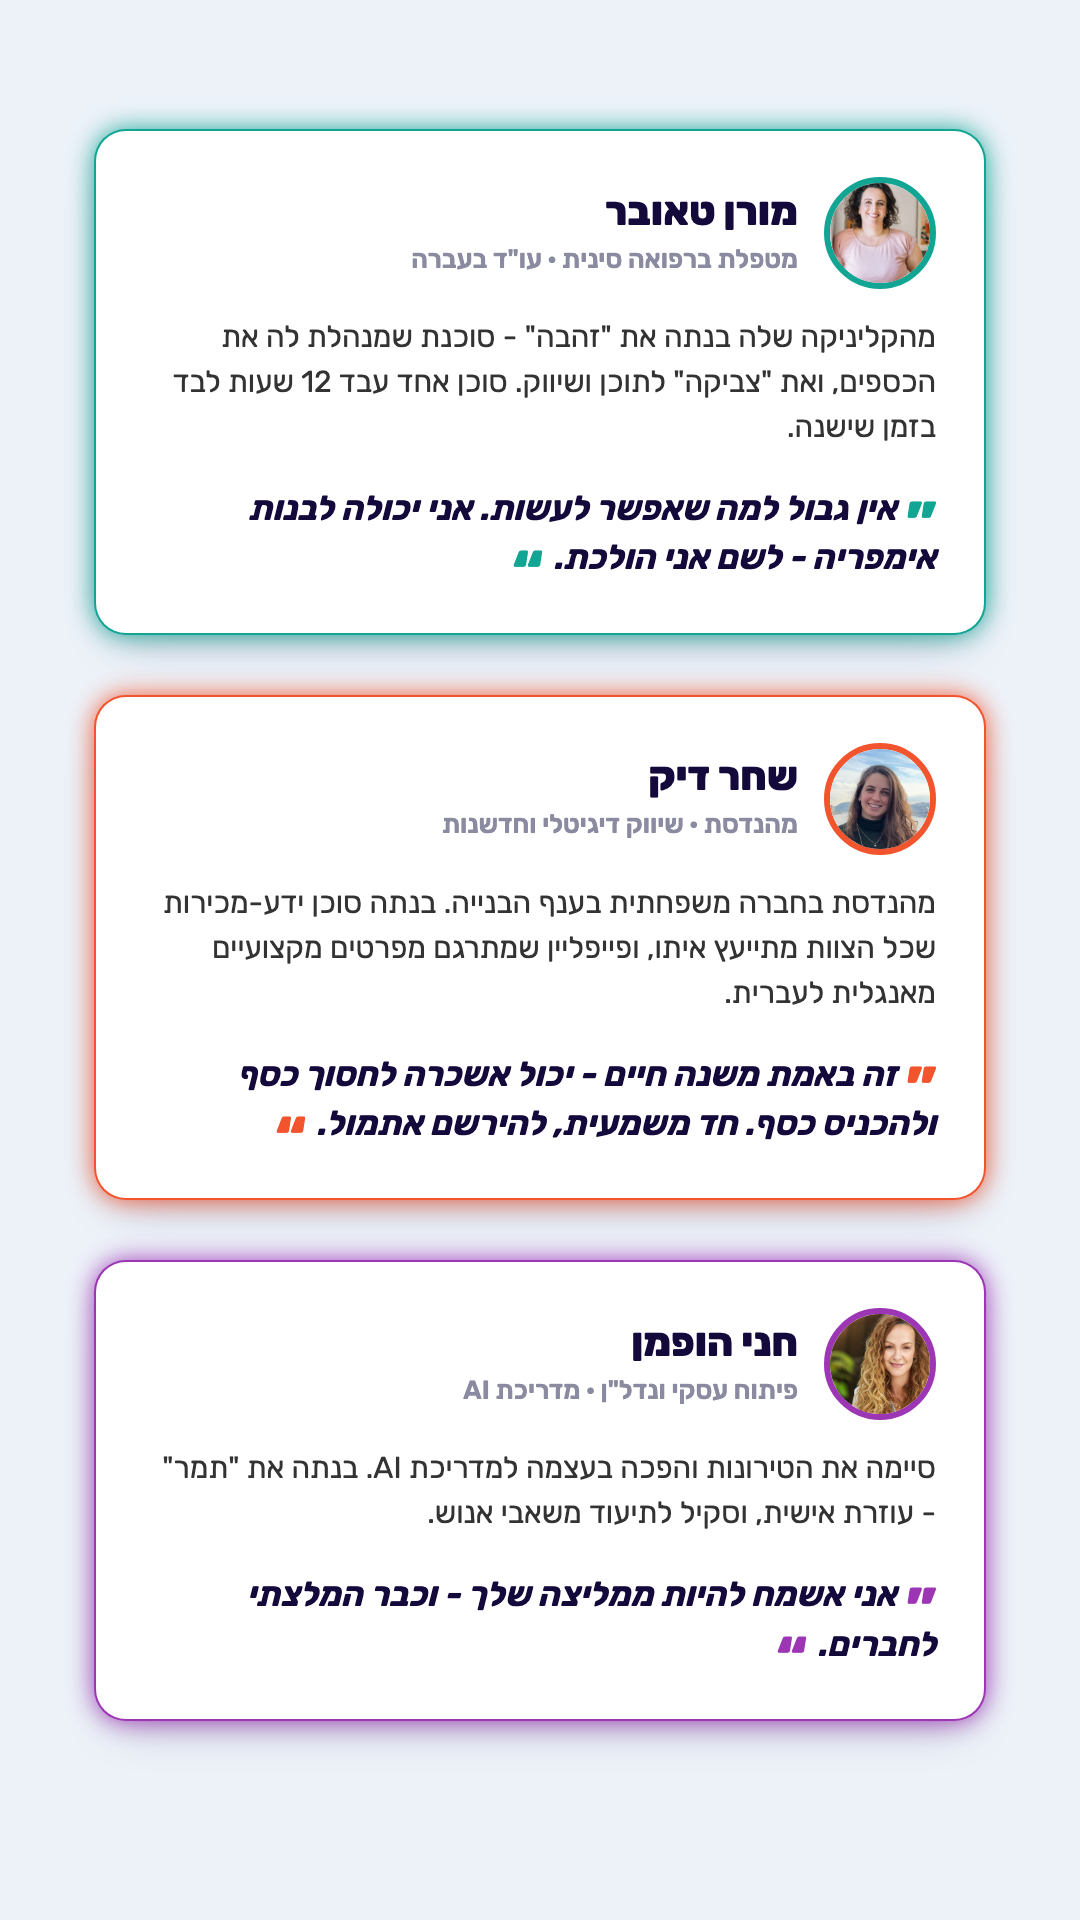
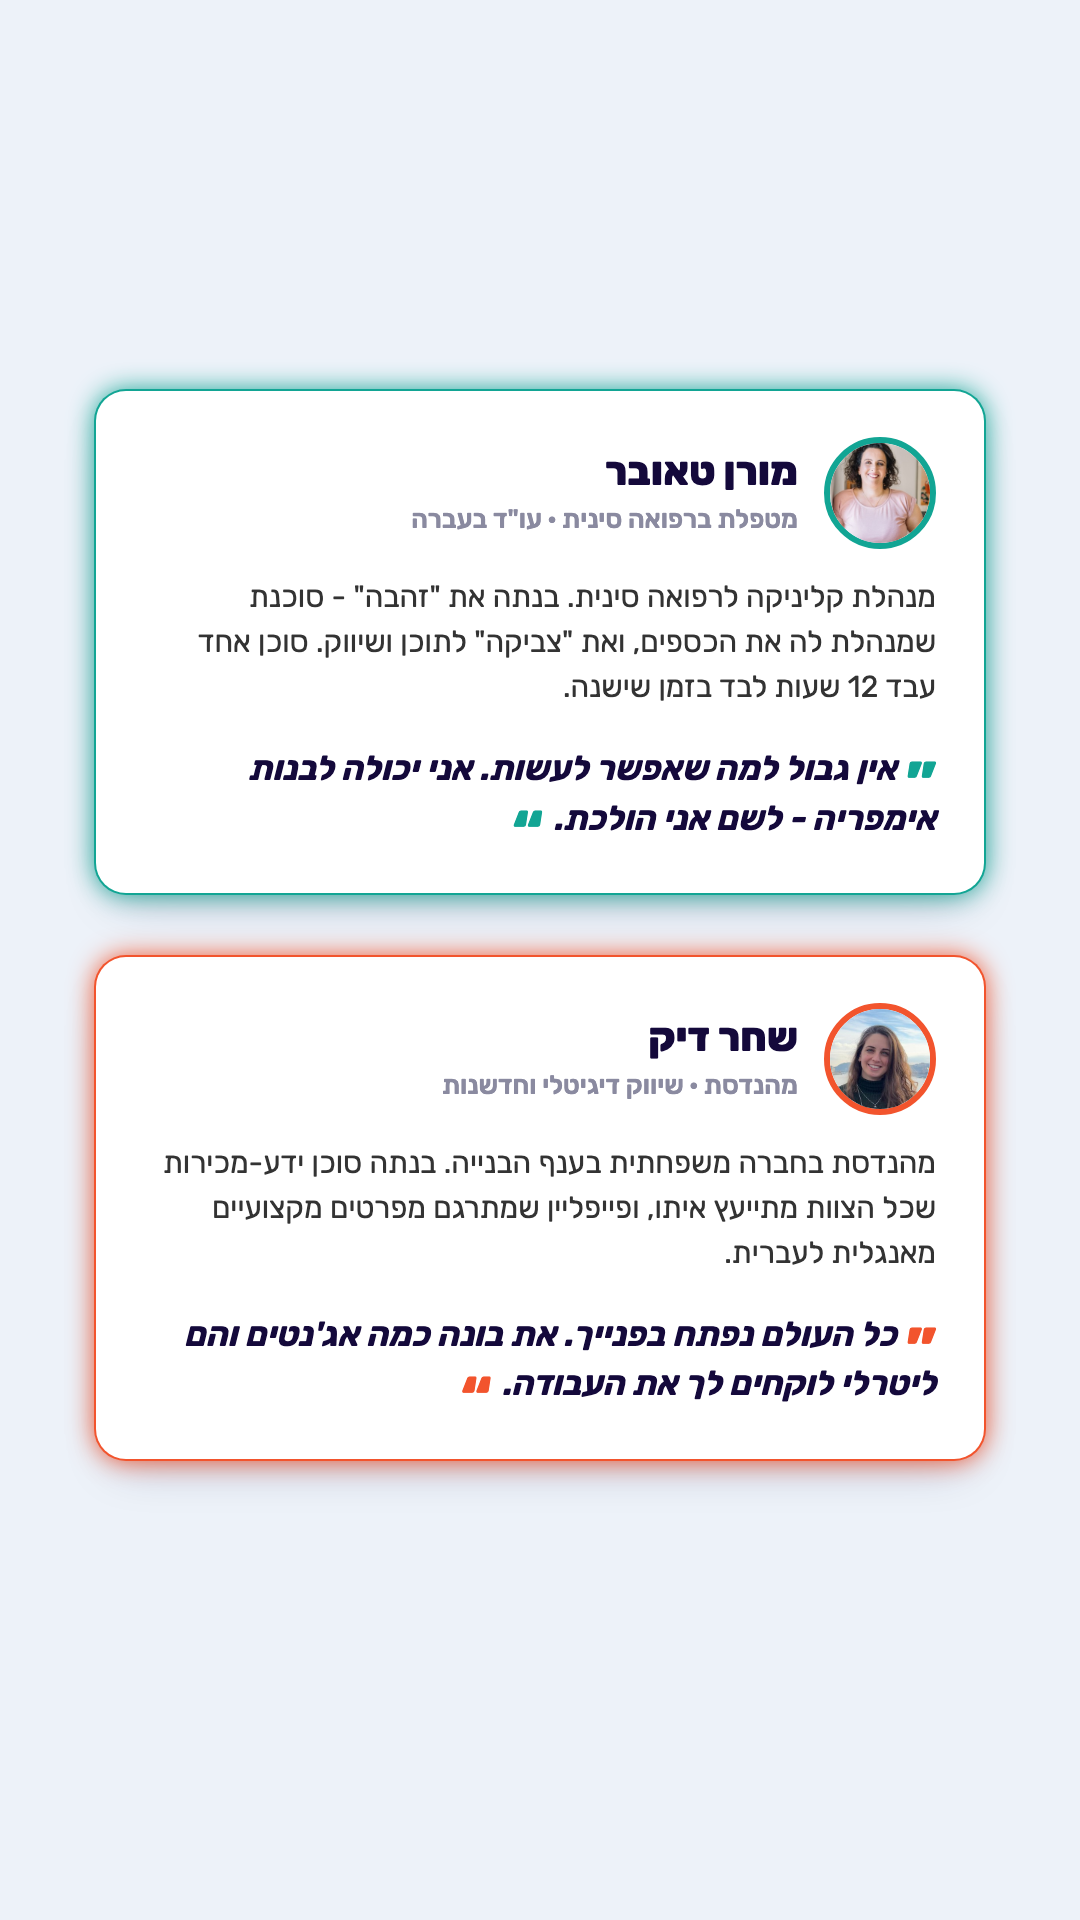
stories: slide 8 - Moran bio + Shahar stronger quote, remove Hani

Changed region(s): [[0.0611, 0.0625, 0.9472, 0.9062]]

diff --git a/stories.html b/stories.html
@@ -305,7 +305,7 @@
           <img class="tcard__photo" src="students/moran.jpg" alt="מורן טאובר">
           <div><div class="tcard__name">מורן טאובר</div><div class="tcard__role">מטפלת ברפואה סינית · עו"ד בעברה</div></div>
         </div>
-        <p class="tcard__info">מהקליניקה שלה בנתה את "זהבה" - סוכנת שמנהלת לה את הכספים, ואת "צביקה" לתוכן ושיווק. סוכן אחד עבד 12 שעות לבד בזמן שישנה.</p>
+        <p class="tcard__info">מנהלת קליניקה לרפואה סינית. בנתה את "זהבה" - סוכנת שמנהלת לה את הכספים, ואת "צביקה" לתוכן ושיווק. סוכן אחד עבד 12 שעות לבד בזמן שישנה.</p>
         <p class="tcard__q">אין גבול למה שאפשר לעשות. אני יכולה לבנות אימפריה - לשם אני הולכת.</p>
       </div>
       <div class="tcard" style="--c:#F2542D">
@@ -314,15 +314,7 @@
           <div><div class="tcard__name">שחר דיק</div><div class="tcard__role">מהנדסת · שיווק דיגיטלי וחדשנות</div></div>
         </div>
         <p class="tcard__info">מהנדסת בחברה משפחתית בענף הבנייה. בנתה סוכן ידע-מכירות שכל הצוות מתייעץ איתו, ופייפליין שמתרגם מפרטים מקצועיים מאנגלית לעברית.</p>
-        <p class="tcard__q">זה באמת משנה חיים - יכול אשכרה לחסוך כסף ולהכניס כסף. חד משמעית, להירשם אתמול.</p>
-      </div>
-      <div class="tcard" style="--c:#9C36B5">
-        <div class="tcard__top">
-          <img class="tcard__photo" src="students/hani.jpg" alt="חני הופמן">
-          <div><div class="tcard__name">חני הופמן</div><div class="tcard__role">פיתוח עסקי ונדל"ן · מדריכת AI</div></div>
-        </div>
-        <p class="tcard__info">סיימה את הטירונות והפכה בעצמה למדריכת AI. בנתה את "תמר" - עוזרת אישית, וסקיל לתיעוד משאבי אנוש.</p>
-        <p class="tcard__q">אני אשמח להיות ממליצה שלך - וכבר המלצתי לחברים.</p>
+        <p class="tcard__q">כל העולם נפתח בפנייך. את בונה כמה אג'נטים והם ליטרלי לוקחים לך את העבודה.</p>
       </div>
     </div>
   </div>
